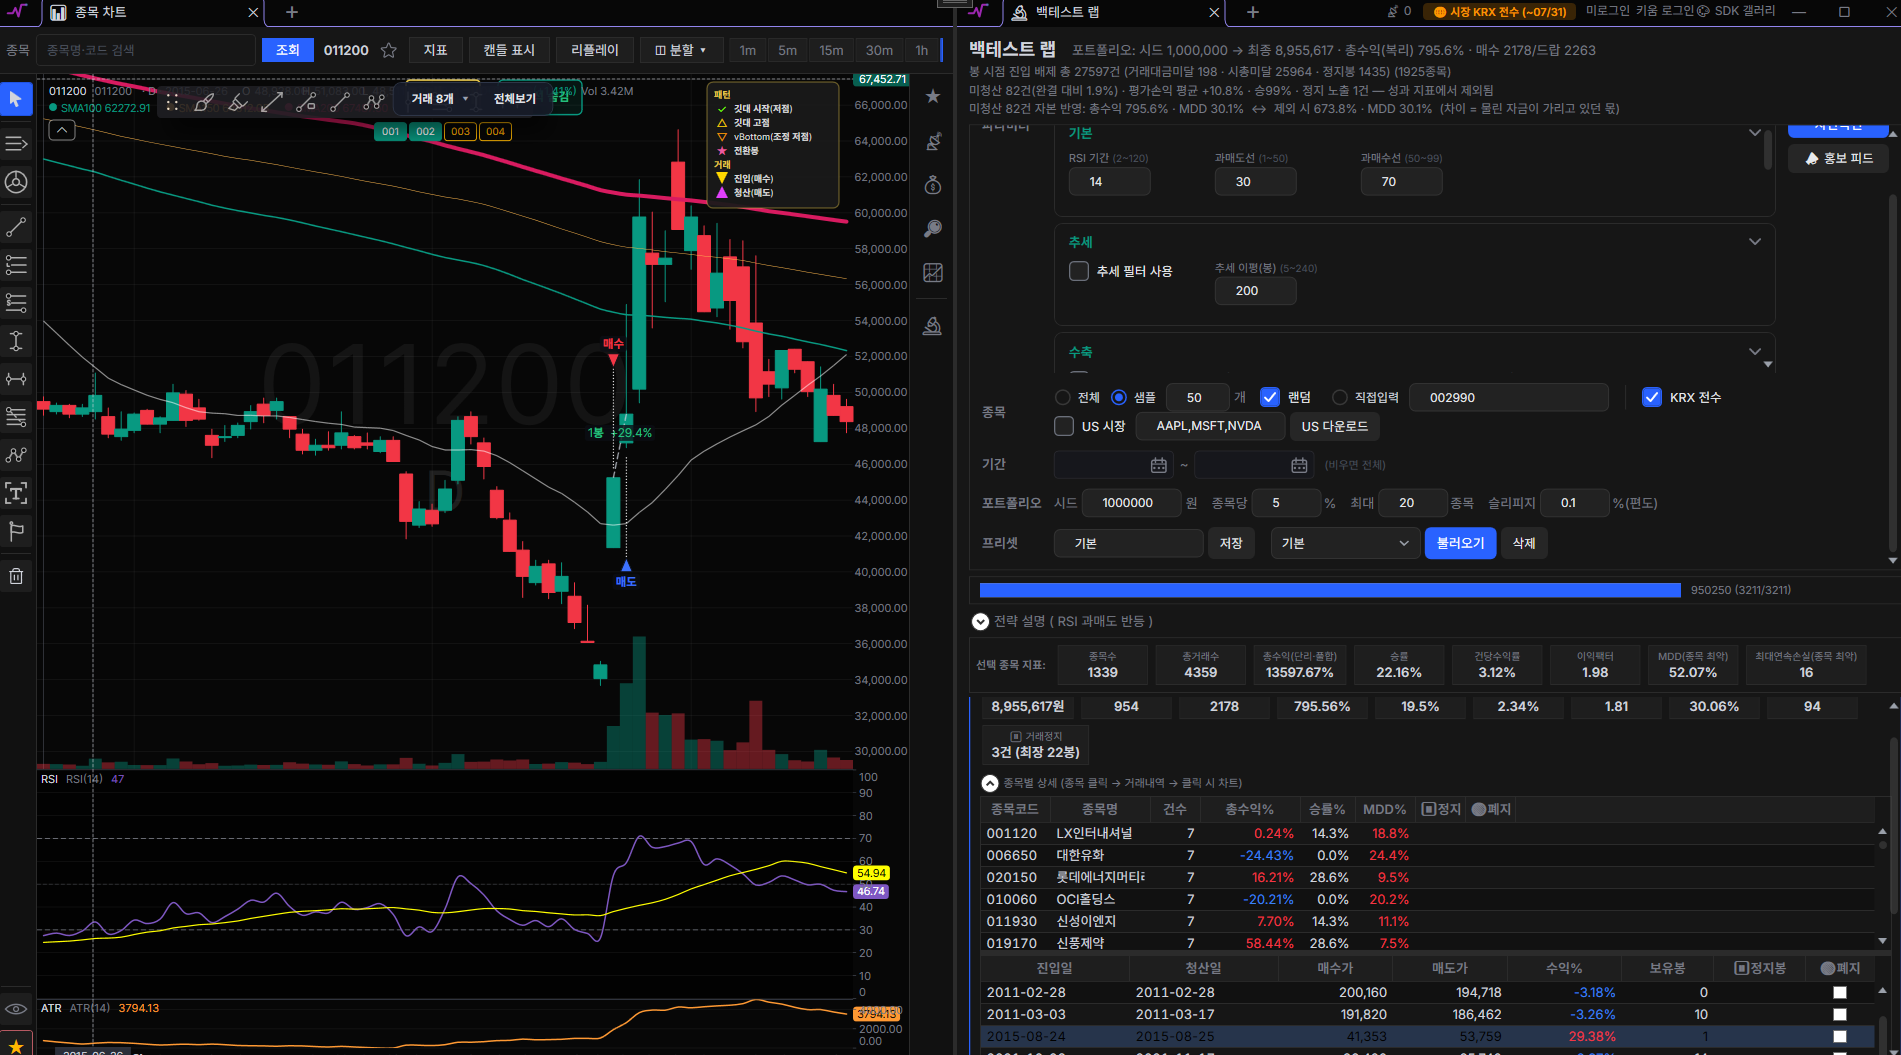
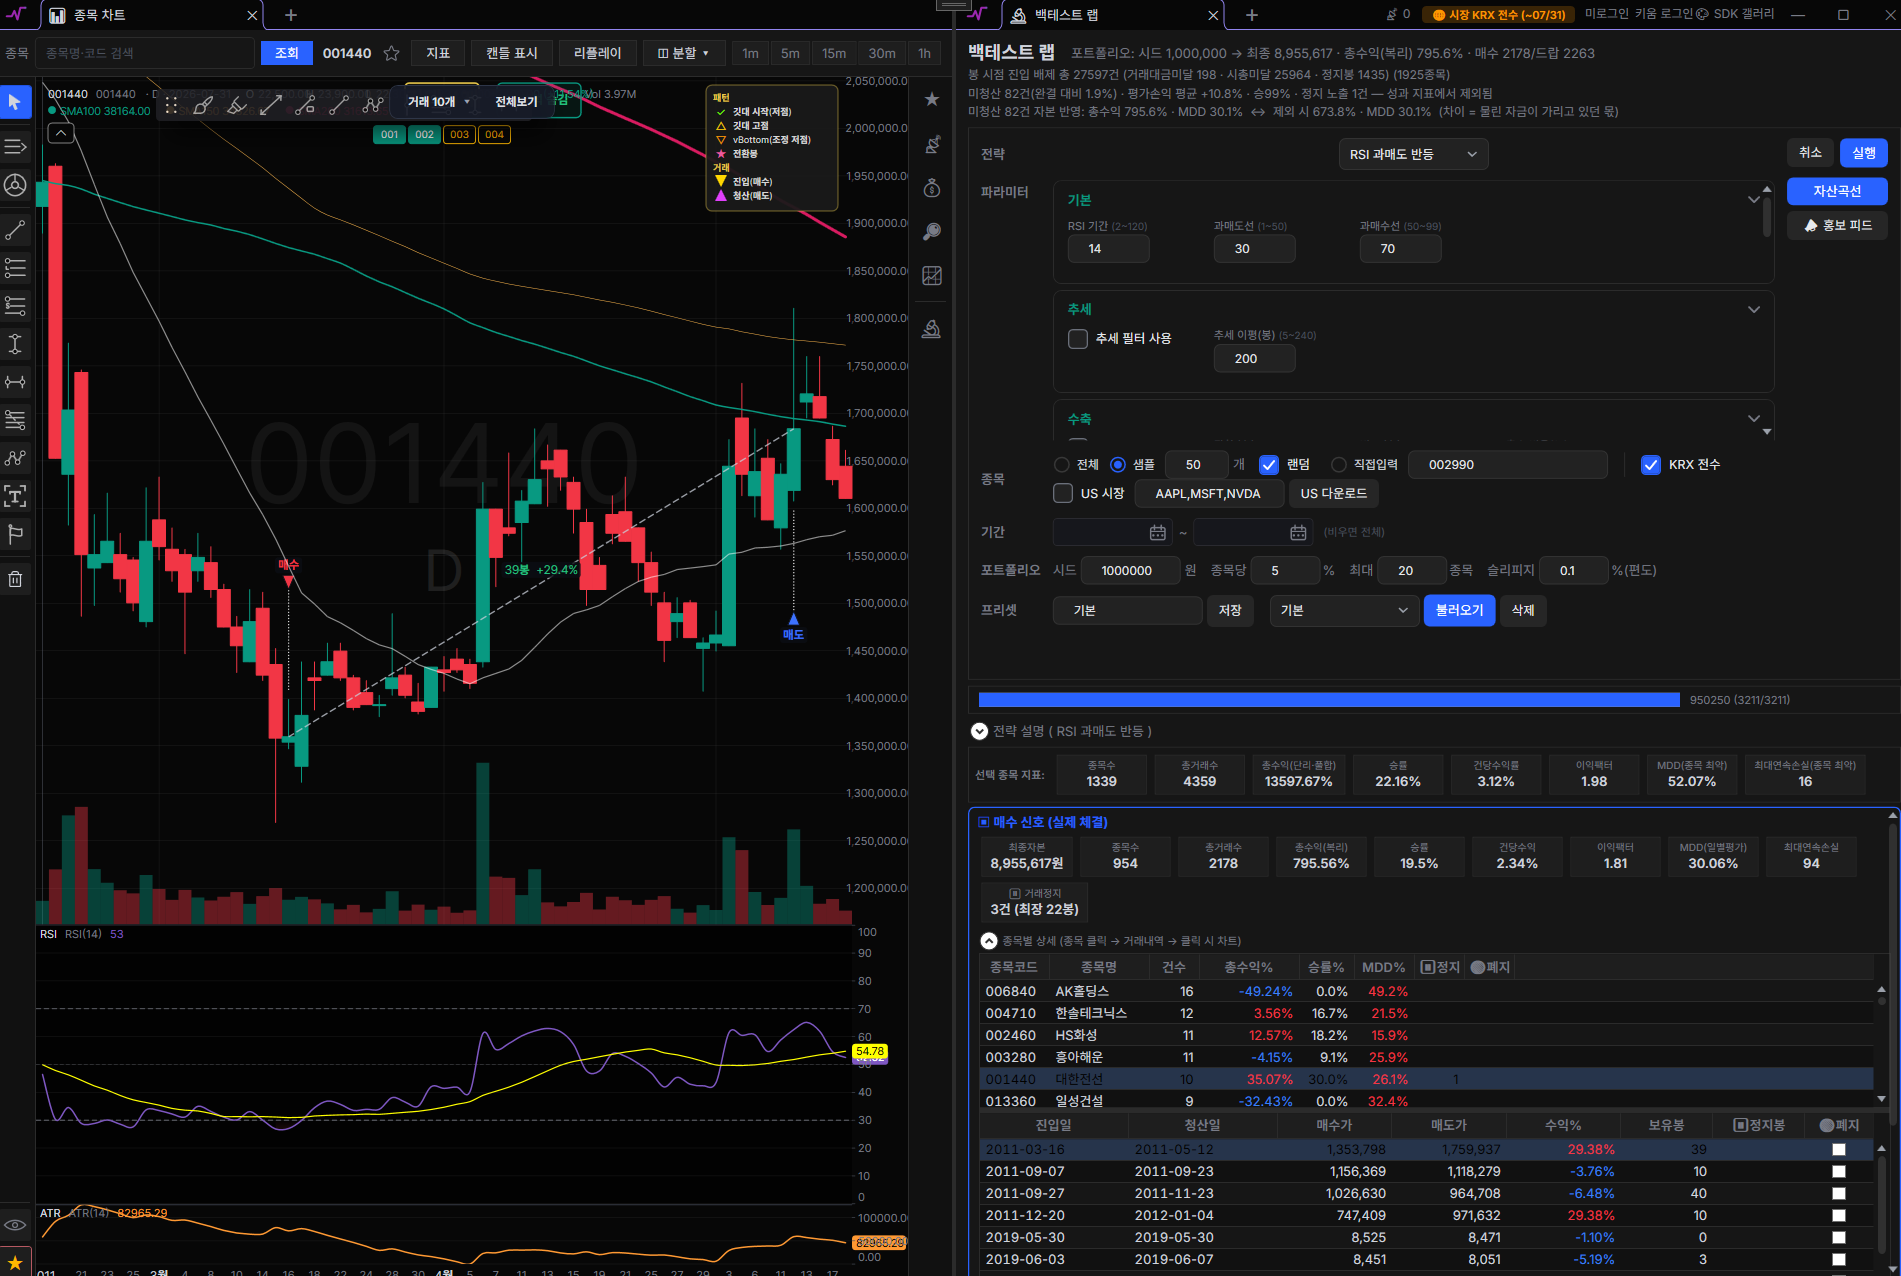
fix: 백테스트 캡처 교체 + 사용 등급 언급 제거
- olaf-backtest.png 를 「매수 신호(실제 체결)」 블록이 온전히 보이는
  캡처로 교체 (이전 캡처는 헤더가 잘려 지표 이름이 없었다)
- 캡션에 「종목별 단순 합」과 「실제 자본 운용 결과」가 다른 값임을 명시
- LLM/ML 설명에서 「무료 등급 한도」 표현 제거 —
  실제로 한 일은 비용 절감이 아니라 「호출이 거절돼도 끊기지 않게」 였다

diff --git a/index.html b/index.html
@@ -515,7 +515,7 @@ footer p{margin:0;font-family:var(--f-mono);font-size:12px;color:var(--muted)}
           <li><b>"이 회사 부채가 늘었나?" 같은 질문에 공시 원문을 근거로 답합니다.</b> 모델이 알고 있는 지식이 아니라 <b>실제 제출 문서에서 찾아온 대목</b>으로 답하게 만드는 것이 핵심입니다.</li>
           <li><b>재무 수치는 LLM에게 맡기지 않습니다.</b> 표에서 직접 뽑고, 빠진 항목만 LLM이 채웁니다. 숫자를 지어내는 것이 가장 위험하기 때문입니다.</li>
           <li><b>뽑아낸 수치가 회계적으로 말이 되는지 스스로 검사합니다.</b> 자산과 부채+자본이 맞지 않으면 그 자리에서 걸립니다.</li>
-          <li><b>무료 사용량 안에서 돌아가게 설계했습니다.</b> 이미 받은 공시는 다시 요청하지 않고, 한도에 걸리면 예비 키로 넘어갑니다.</li>
+          <li><b>같은 것을 두 번 부르지 않습니다.</b> 이미 받은 공시는 요청 자체를 하지 않고, 호출이 거절당하면 예비 키로 넘어가 <b>중단된 지점부터 이어서</b> 진행합니다.</li>
         </ul>
 
         <h3 style="margin-top:40px">그래서 무엇을 발견했나</h3>
@@ -677,7 +677,7 @@ footer p{margin:0;font-family:var(--f-mono);font-size:12px;color:var(--muted)}
         <div class="shots two">
           <figure class="shot">
             <img src="img/olaf-backtest.png" alt="백테스트 화면 — 전략 성과 곡선과 거래 내역" loading="lazy" onerror="var f=this.closest('figure'),g=f.parentNode;f.remove();if(!g.querySelector('figure'))g.remove()" />
-            <figcaption><b>백테스트</b>전략을 과거 시세에 돌려 수익·최대 낙폭·거래 내역을 냅니다. 상단에 <strong>「미청산 82건을 넣었을 때와 뺐을 때」를 둘 다 띄우는 것</strong>이 핵심입니다 — 못 판 주식을 빼면 <a href="#audit" style="color:var(--accent)">06</a>에서 말하는 그 편향이 그대로 들어옵니다. 진입이 걸러진 건수도 사유별로 함께 셉니다.<br /><small style="color:var(--muted)">※ 화면의 795.6%는 <strong>특정 전략·표본 설정 한 번의 실행값</strong>입니다. 06의 397%·1,241%와는 전략도 종목 범위도 다릅니다.</small></figcaption>
+            <figcaption><b>백테스트</b>전략을 과거 시세에 돌려 수익·최대 낙폭·거래 내역을 냅니다. 이 화면에서 신경 쓴 것은 <strong>기준이 다른 수를 한 덩어리로 보여주지 않는 것</strong>입니다 — 종목별 성적을 단순히 합한 값과 <strong>실제로 자본을 굴렸을 때의 값</strong>은 다르므로 블록을 나눠 각각 라벨을 달았고, 상단에는 <strong>못 판 주식(미청산 82건)을 넣었을 때 795.6%, 뺐을 때 673.8%</strong>를 둘 다 띄웁니다. 빼는 쪽만 보여주면 <a href="#audit" style="color:var(--accent)">06</a>에서 말하는 그 편향이 그대로 들어옵니다. 진입이 걸러진 건수도 사유별로 함께 셉니다.<br /><small style="color:var(--muted)">※ 한 번의 실행값이며 <strong>특정 전략·표본 설정</strong> 기준입니다. 06의 397%·1,241%와는 전략도 종목 범위도 다릅니다.</small></figcaption>
           </figure>
           <figure class="shot">
             <img src="img/olaf-autotrade.png" alt="자동매매 관리 화면" loading="lazy" onerror="var f=this.closest('figure'),g=f.parentNode;f.remove();if(!g.querySelector('figure'))g.remove()" />
@@ -736,7 +736,7 @@ footer p{margin:0;font-family:var(--f-mono);font-size:12px;color:var(--muted)}
           </div></li>
           <li><span class="mk">▸</span><div>
             <b>Gemini 배치 분류</b>
-            <span>종목 3,000개를 배치 10 × 동시 3으로 처리해 테마·촉매·실적 요약을 생성합니다. 키 이중화와 재시도 헬퍼로 무료 등급 한도 안에서 운용했습니다.</span>
+            <span>종목 3,000개를 배치 10 × 동시 3으로 처리해 테마·촉매·실적 요약을 생성합니다. 키 이중화와 재시도 헬퍼를 두어 <strong>호출이 거절당해도 작업 전체가 멈추지 않고 이어지게</strong> 했습니다.</span>
           </div></li>
         </ol>
         <div class="stack"><b>C# / .NET 8</b><b>WPF · CommunityToolkit.Mvvm</b><b>Gemini API</b><b>Yahoo Finance</b><b>SQLite</b><b>플러그인 아키텍처</b></div>
